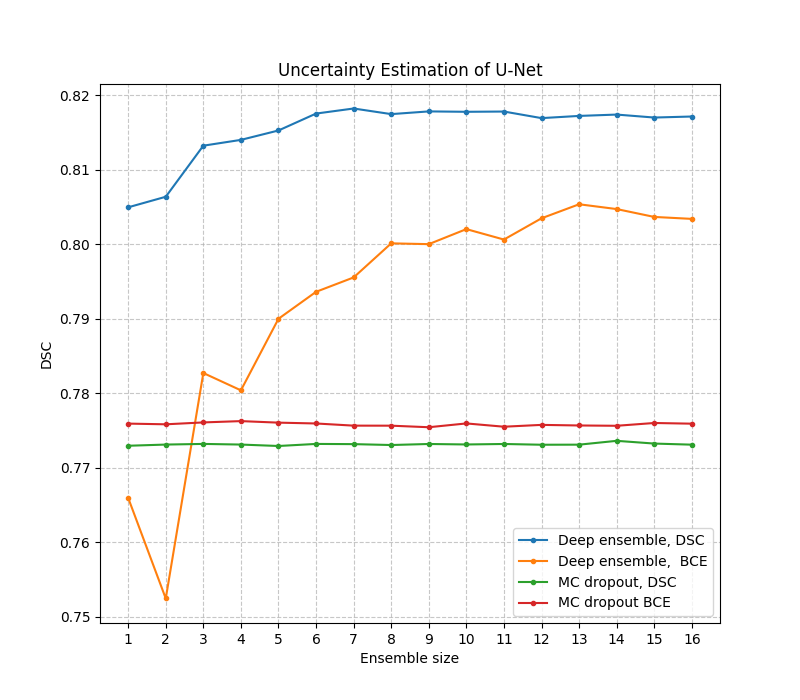
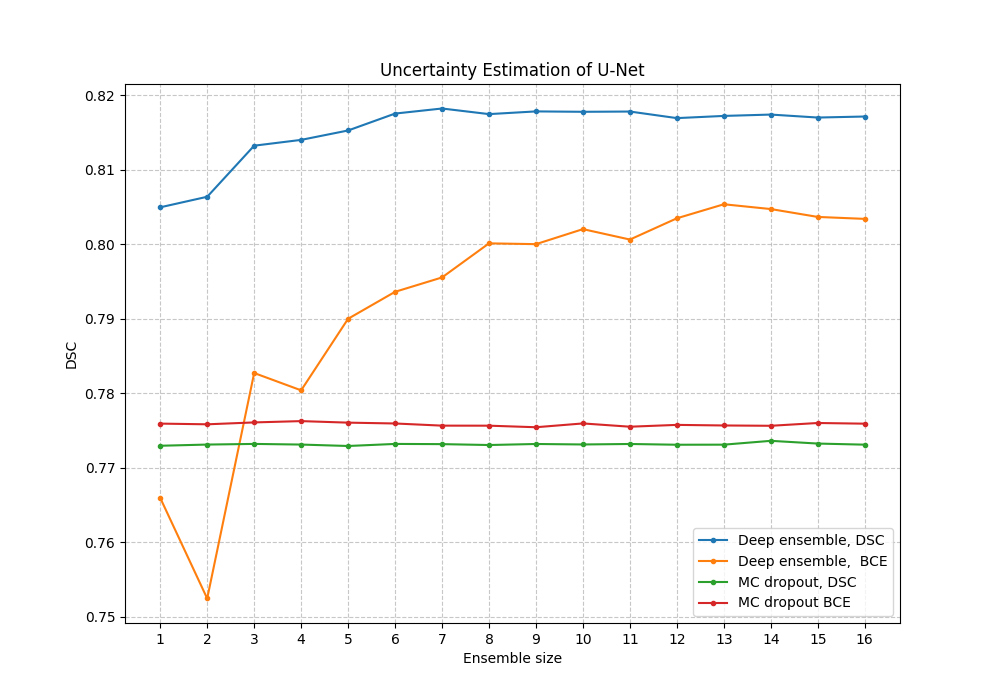
minor tweaks to plots

diff --git a/src/deep_ensemble.py b/src/deep_ensemble.py
@@ -284,7 +284,7 @@ def plot_ensembles_vs_score(save_plot_folder):
     ) = dice_list()
 
     n = range(1, len(unet_BCE) + 1)
-    plt.figure(figsize=(8, 7))
+    plt.figure(figsize=(10, 7))
     plt.plot(n, unet_dice, ".-", label="Deep ensemble, DSC")
     plt.plot(n, unet_BCE, ".-", label="Deep ensemble,  BCE")
     plt.plot(n, unet_dropout_dice, ".-", label="MC dropout, DSC")
@@ -295,11 +295,11 @@ def plot_ensembles_vs_score(save_plot_folder):
     plt.xticks(n)
     plt.xlabel("Ensemble size")
     plt.ylabel("DSC")
-    plt.title("Uncertainty Estimation of U-Net")
+    plt.title("U-Net")
     plt.savefig(save_plot_folder + "unet_dsc_vs_ensemble_size.png")
 
     N = range(1, len(resunetplusplus_dice) + 1)
-    plt.figure(figsize=(8, 7))
+    plt.figure(figsize=(10, 7))
     plt.plot(N, resunetplusplus_dice,".-",label="Deep ensemble, DSC")
     plt.plot(N, resunetplusplus_BCE, ".-",label="Deep ensemble, BCE")
     plt.plot(N, resunetplusplus_dropout_dice, ".-", label="MC dropout, DSC")
@@ -311,7 +311,7 @@ def plot_ensembles_vs_score(save_plot_folder):
     plt.yticks(np.arange(0.35, 0.8, 0.05))
     plt.xlabel("Ensemble size")
     plt.ylabel("DSC")
-    plt.title("Uncertainty Estimation of ResUNet++")
+    plt.title("ResUNet++")
     plt.savefig(save_plot_folder + "resunet++_dsc_vs_ensemble_size.png")
 
 
